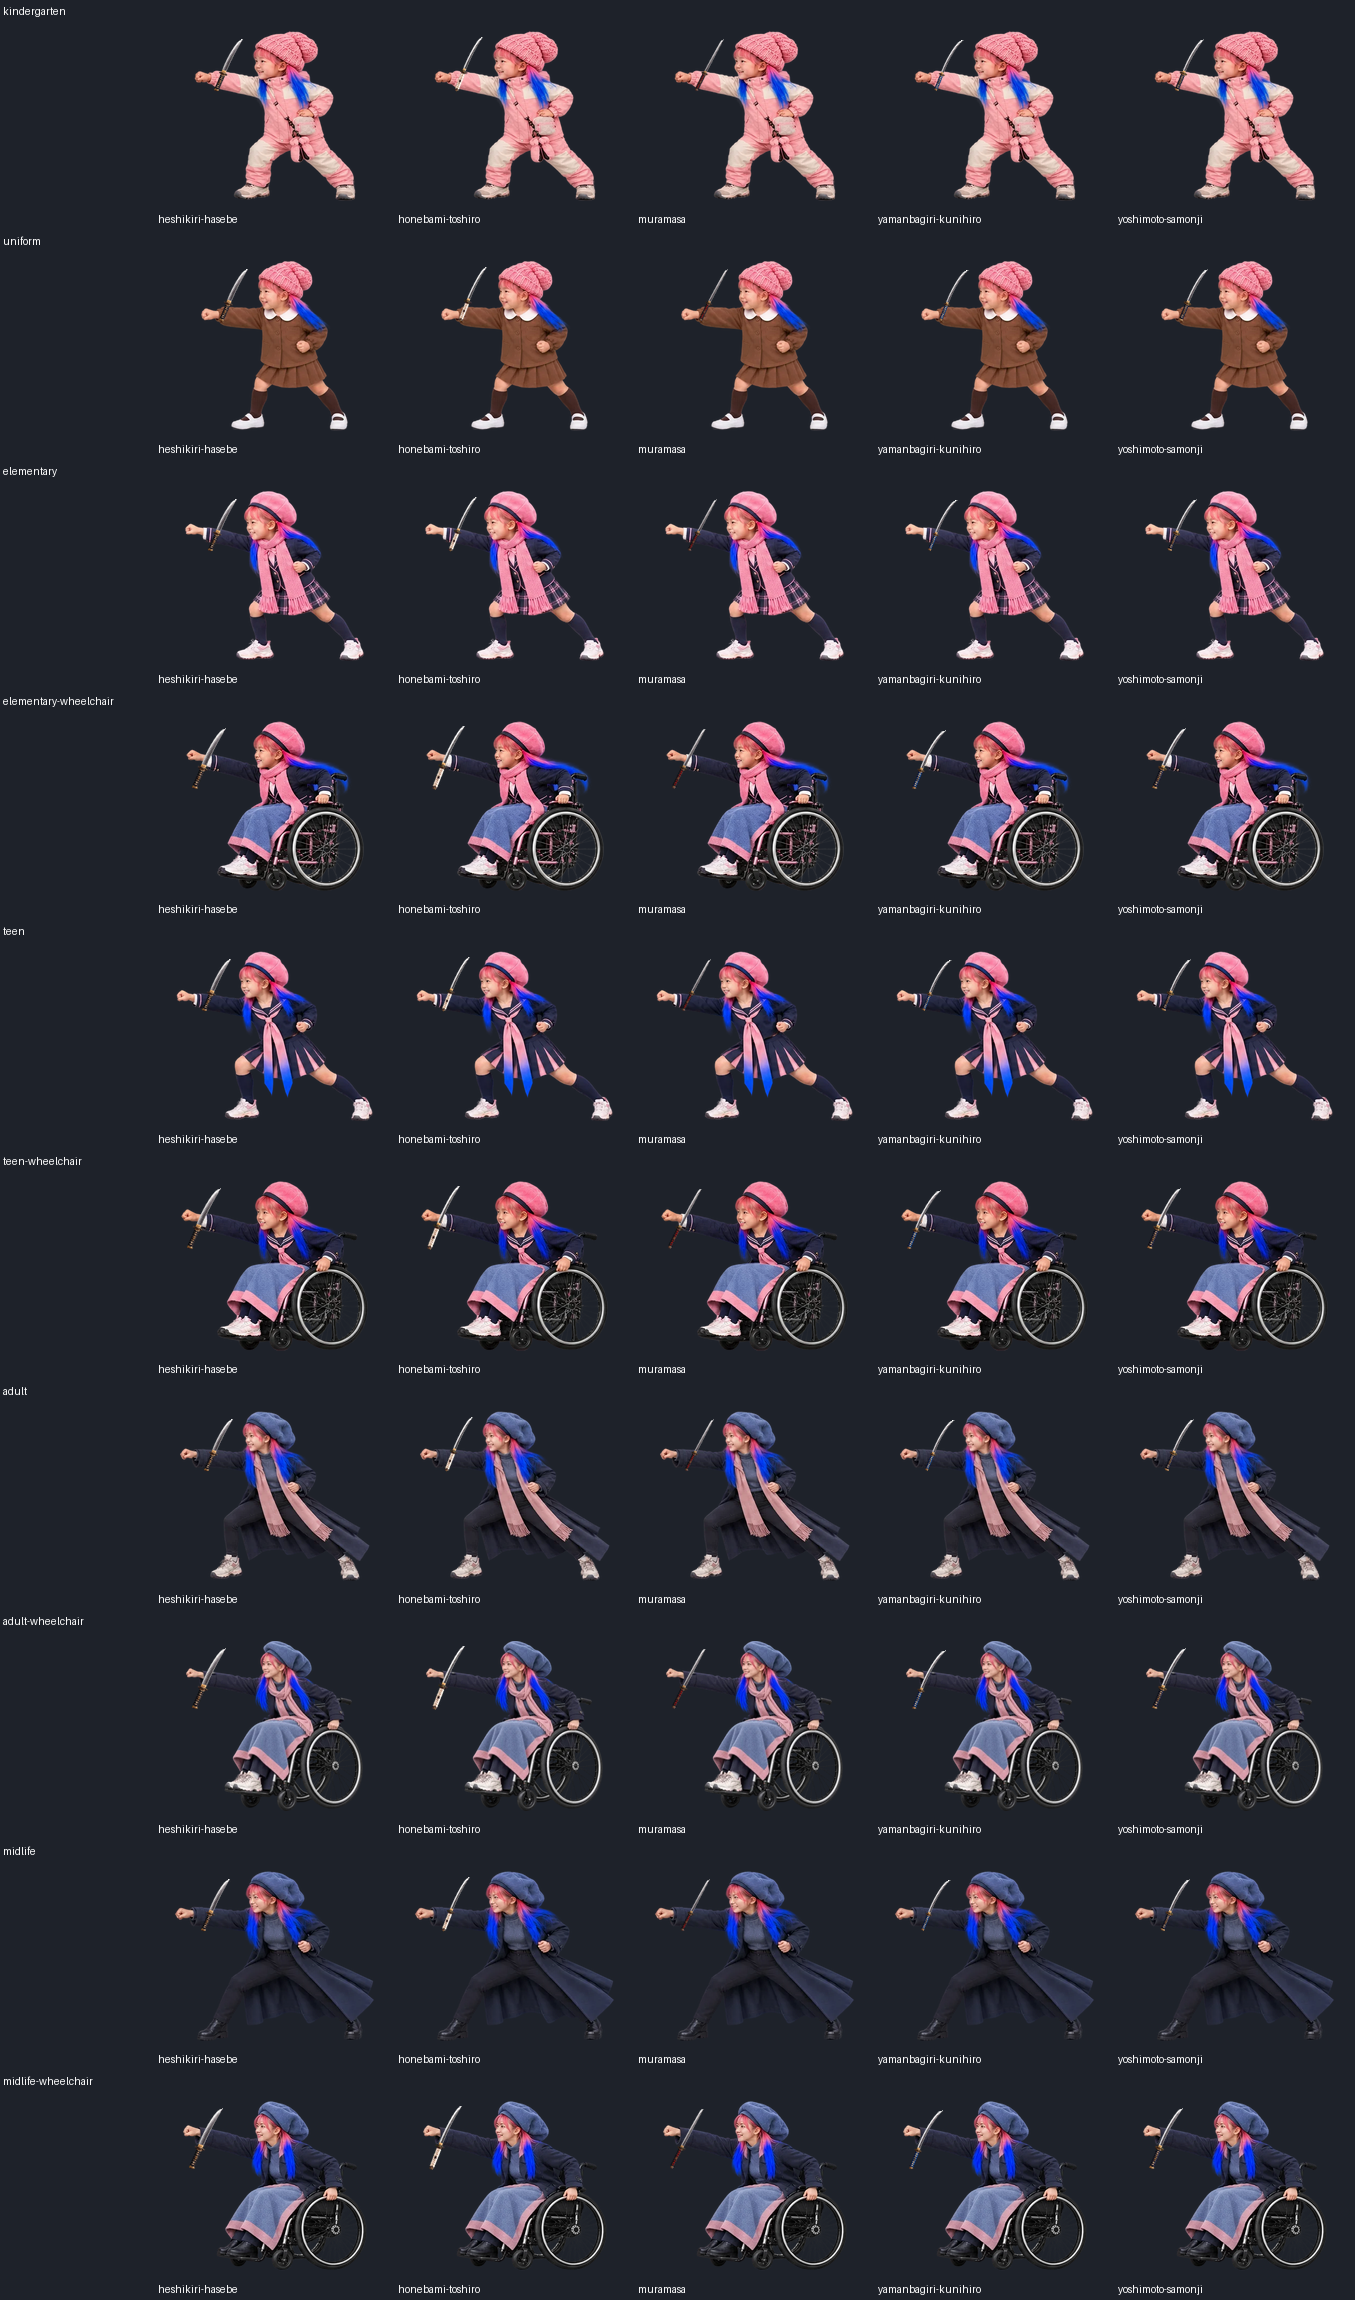
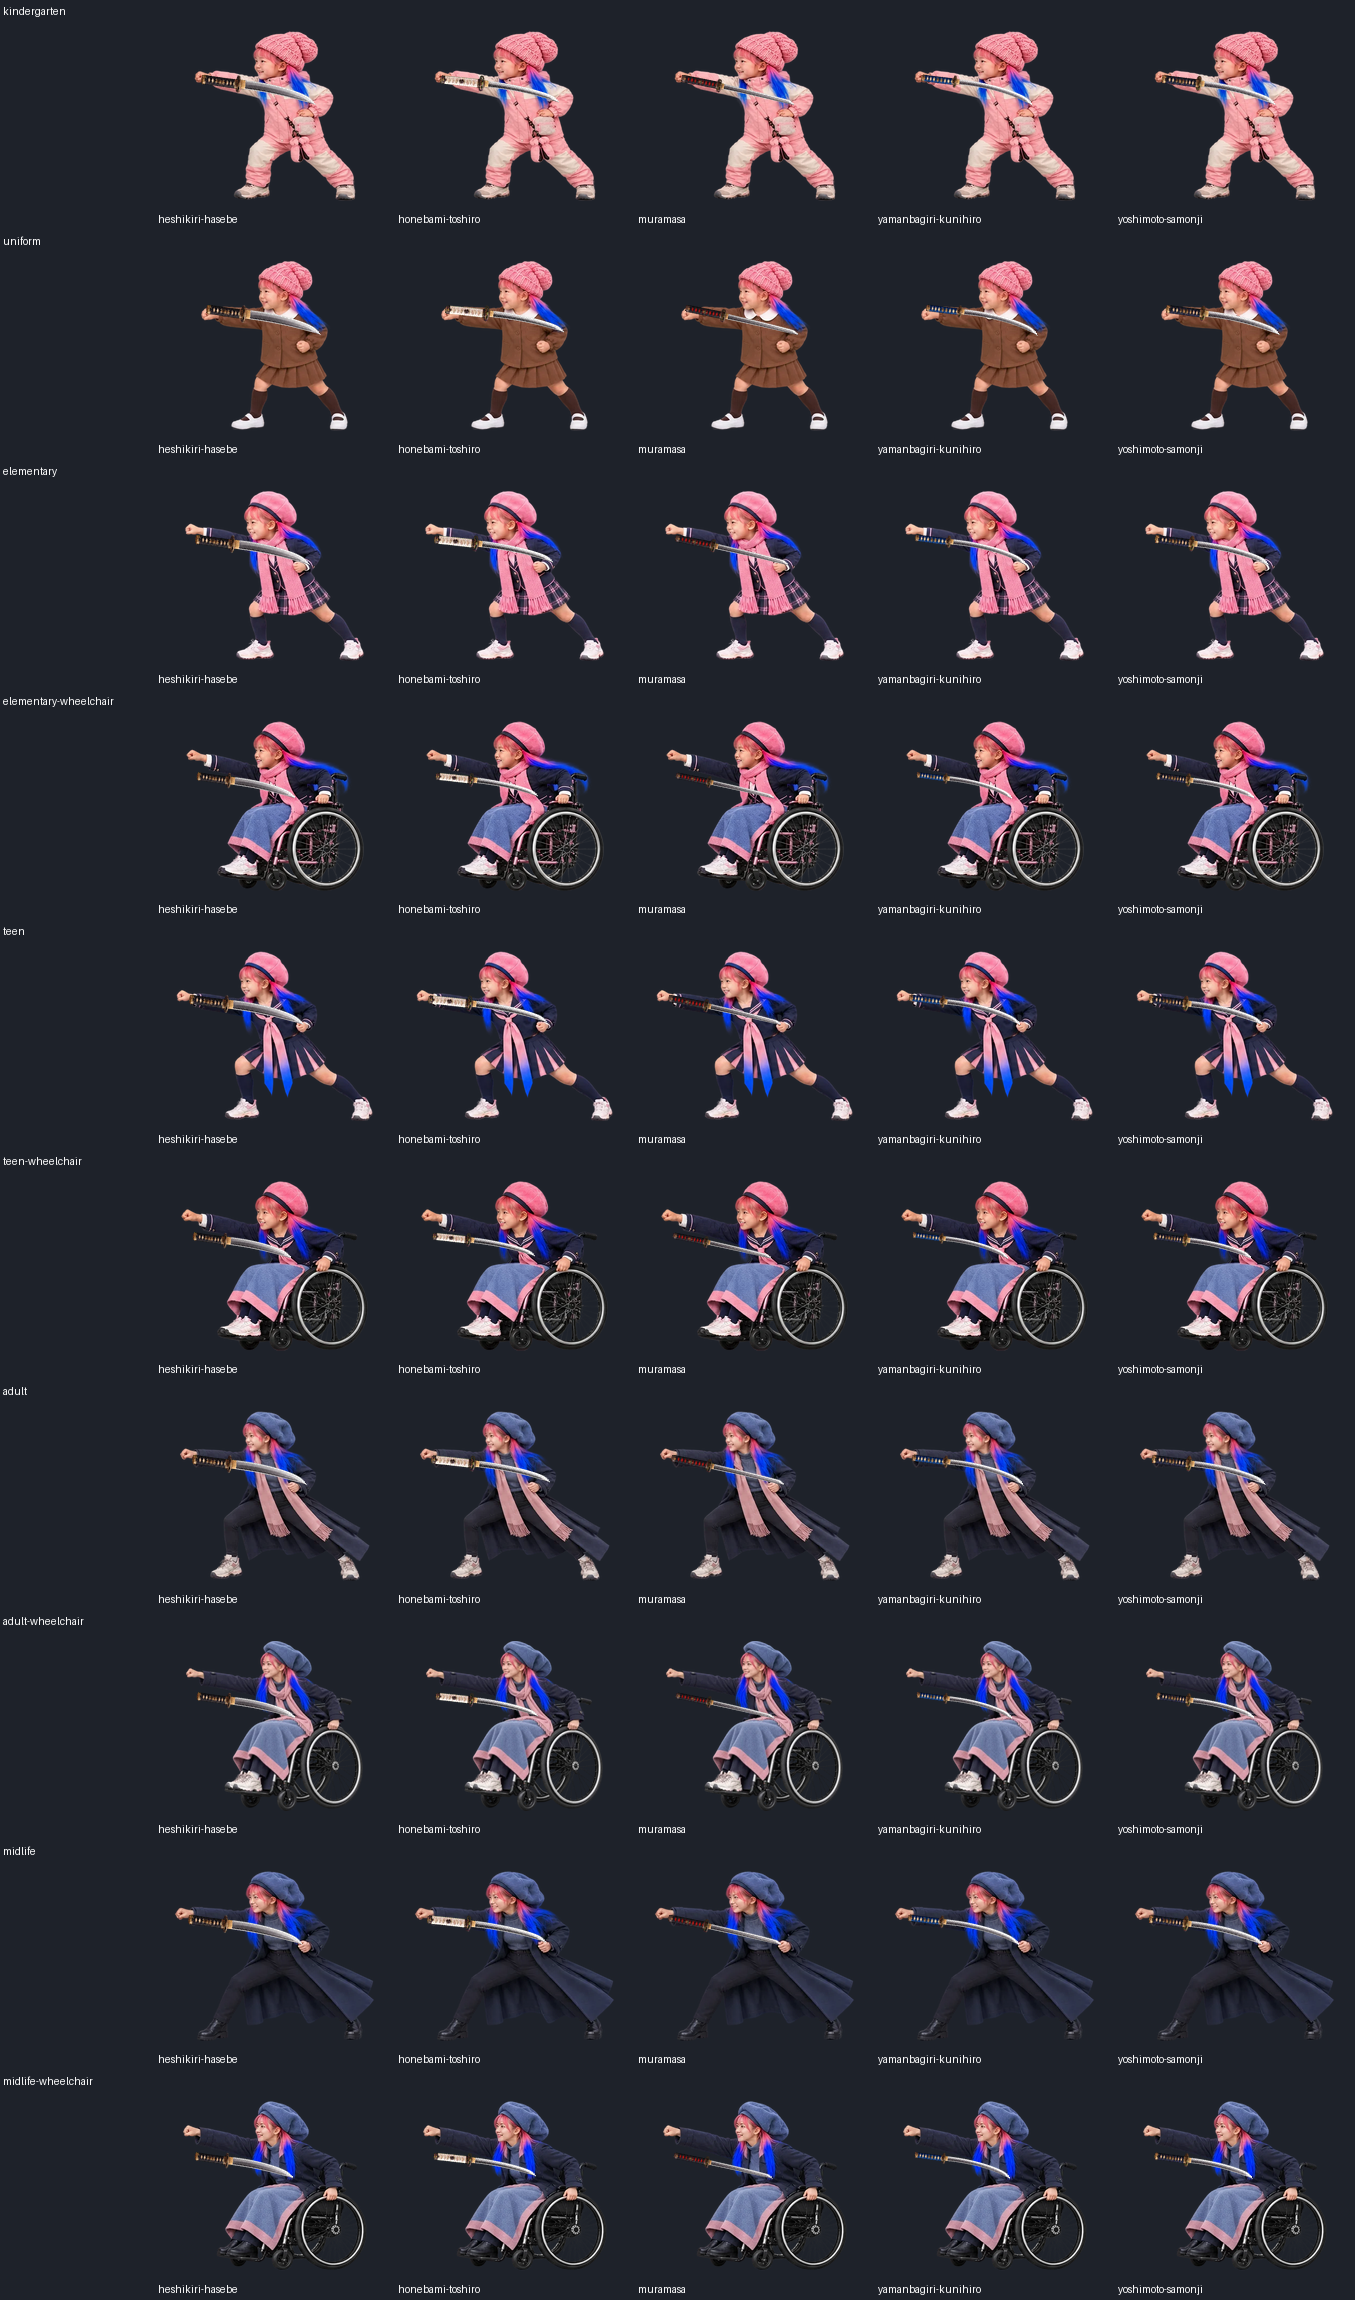
fix: restore Nam slash sword scale

diff --git a/.claude/skills/sit-character-sprite/SKILL.md b/.claude/skills/sit-character-sprite/SKILL.md
@@ -79,7 +79,7 @@ Sit by Me の4人（と子供3人、不良など人物）の絵を、生成 → 
 - 3x3の各セルに全身を収め、隣の人物と重ねない。車椅子・帽子・手・小道具もセル境界を越えず、人物の間に透明な間隔を残す。収まらない場合は縦横比を保って人物全体を一様に縮小する。ゲーム内で縮小表示する素材では、各セルをぎりぎりまで埋めず、人物とポーズの識別を優先する（C001中学生車椅子の2026-10-26生成で、行境界の重なりが1コマ欠落と隣コマへの帽子混入を起こしたため）。
 - `key_grid.py` が `EMPTY` を返す、隣の人物の断片が切り出しへ入る、または手足・車輪がセル端で切れる場合は、その候補を手作業の境界切りで採用しない。原因をIssueへ記録し、セル内の余白を増やすpromptへ変えて再生成する。見えない微小ノイズと、ポーズやシルエットが損なわれる重なりは別の合否として扱う。
 - **刀・武器は人物と別レイヤーで再利用する（kako-jun 2026-10-26）**。同じ刀を年齢・衣装・車椅子ごとに描き直さず、刀ごとに共通画像を1枚作り、`ready / slash / special` など攻撃ポーズごとの大まかな位置・縮尺・角度を複数世代へ適用する。刀は人物の前面へ表示する。表示時間が短く、縮小されるため、指と柄の完全な接触や遮蔽は合否条件にせず、拳の近くに柄があり攻撃姿勢として読めるかを確認する。共通transformが立位と車椅子など異なるポーズ構造で明らかに崩れる場合だけ、構造別に少数の位置・縮尺transformへ分け、年齢ごとの武器画像を増やさない。位置合わせは透明余白を除いた人物の可視bboxを基準にし、立位・車椅子など拳の位置が構造的に異なる場合は位置transformだけ分ける。刀画像は同じものを使い、各構造から1セット以上を縮小合成して確認する（C001 2026-10-26: 小学生立位＋壮年車椅子の比較で構造別位置を確認）。
-- 刀を回転してから柄アンカーを置くときは、回転前の刀幅・高さでアンカー座標を算出し、回転後キャンバス内の座標へ変換してから人物へ合成する。回転後の幅・高さを回転前寸法の代わりに使ったり、回転後キャンバスの固定割合を柄位置とみなしたりしない。各刀候補×対象世代の白/暗色縮小一覧を作り、拳との近さ・刀身全体の画面内収まりを目で確認する（C002 2026-10-27: 固定 `.82,.82` を回転後キャンバス上の点とみなした誤計算に加え、上端クリアランスを独立確認していなかったため刃先見切れを見逃した。回転前寸法から柄位置を変換し、全世代×全候補で上端を含む四辺の収まりを確認する）。
+- 刀を回転してから柄アンカーを置くときは、回転前の刀幅・高さでアンカー座標を算出し、回転後キャンバス内の座標へ変換してから人物へ合成する。回転後の幅・高さを回転前寸法の代わりに使ったり、回転後キャンバスの固定割合を柄位置とみなしたりしない。各刀候補×対象世代の白/暗色縮小一覧を作り、拳との近さ・刀身全体の画面内収まりを目で確認する（C002 2026-10-27: 拳が左端近くにあるため既定角度では刀身が左へ見切れた。縮小で逃げず、刀身を空きのある画面内側へ向けて他キャラと同等の縮尺を保つ。全世代×全候補で四辺の収まりを確認する）。
 - **全員の武器は刀（kako-jun 2026-10-26）**。戦闘キャラにリボンを武器として描かない。刀は人物と別レイヤーで重ね、人物の前面に表示する。軌跡は既定では作らない。明示的に必要になった場合だけ、刀の移動方向に沿う短く細い斬撃線・残像を刀と別レイヤーで作る。大きな弧・帯・リボン状や布状の曲線軌跡は作らない。刀の柄と拳は縮小状態で近くに見えればよく、厳密な接触や指の遮蔽は合否条件にしない。マフラーやネッカチーフは衣装として人物に接続した状態を保つ。
 - **刀の端切れを縮小合成で確認する（C001 2026-10-26）**。各刀候補の実際に見えるalpha領域を使い、立位・車椅子など必要な構造の全対象世代へ配置した一覧を作る。横へ長く伸びる斬撃では、先端だけでなく鍔・柄も含めた刀全体がゲーム画面のフレーム内に残るかを一覧と実使用サイズの両方で目視する。どれか一枚でも端から刃先が飛び出して見えなくなれば、その刀候補または該当構造のtransformを調整し、一覧を作り直す。まず刀を一様に縮小し、必要なら柄の基準位置を調整する。世代ごとに刀画像を増やすのは、共通刀と構造別transformで解決できない場合だけにする。境界からの固定px距離やalpha端接触を機械的な失格条件にせず、縮小した実表示で欠けて見えるかを判断する。実表示でも先端が判別でき、フレーム内に収まっていれば、過剰な余白を求めない。軌跡を使う場合は人物・刀から分け、刀の移動方向に沿った斬撃線として作る。
 - 武器レイヤーを使うゲームアニメーションでは、キー姿勢を先に確認し、後続工程で振り始め・振り抜きなど隣り合うポーズを補う中間ポーズを作って滑らかにつなぐ。最初から全組み合わせの画像を作らず、共通武器レイヤーと少数の姿勢・transformで成立するかを縮小表示で確かめる。

diff --git a/docs/assets-policy.md b/docs/assets-policy.md
@@ -57,7 +57,7 @@
 
 - 戦闘人物の刀は人物画像へ焼き込まず、候補刀ごとの共通画像を前面レイヤーとして合成する。軌跡は既定で作らない。
 - ポーズ構造（立位・車椅子）ごとの少数の位置・縮尺・角度を使い、世代ごとに刀画像を増やさない。縮小表示で柄が拳の近くにあり、刀身全体が読めることを白・暗色背景で一覧確認する。指の完全な握りや厳密な重なりは求めない。
-- 回転後の柄アンカーは、回転前の画像寸法から回転後キャンバス座標へ変換して求める。固定割合による近似だけに頼らず、候補刀×全対象世代の縮小合成で手元・刀身の見え方を確認し、刃先が四辺から見切れていないか確認する（C002 2026-10-27）。
+- 回転後の柄アンカーは、回転前の画像寸法から回転後キャンバス座標へ変換して求める。固定割合による近似だけに頼らず、候補刀×全対象世代の縮小合成で手元・刀身の見え方を確認し、刃先が四辺から見切れていないか確認する。手が画面端近くにある場合、武器を小さくする前に刀身を画面内側へ向ける（C002 2026-10-27）。
 
 ### 年齢段階と衣装
 
